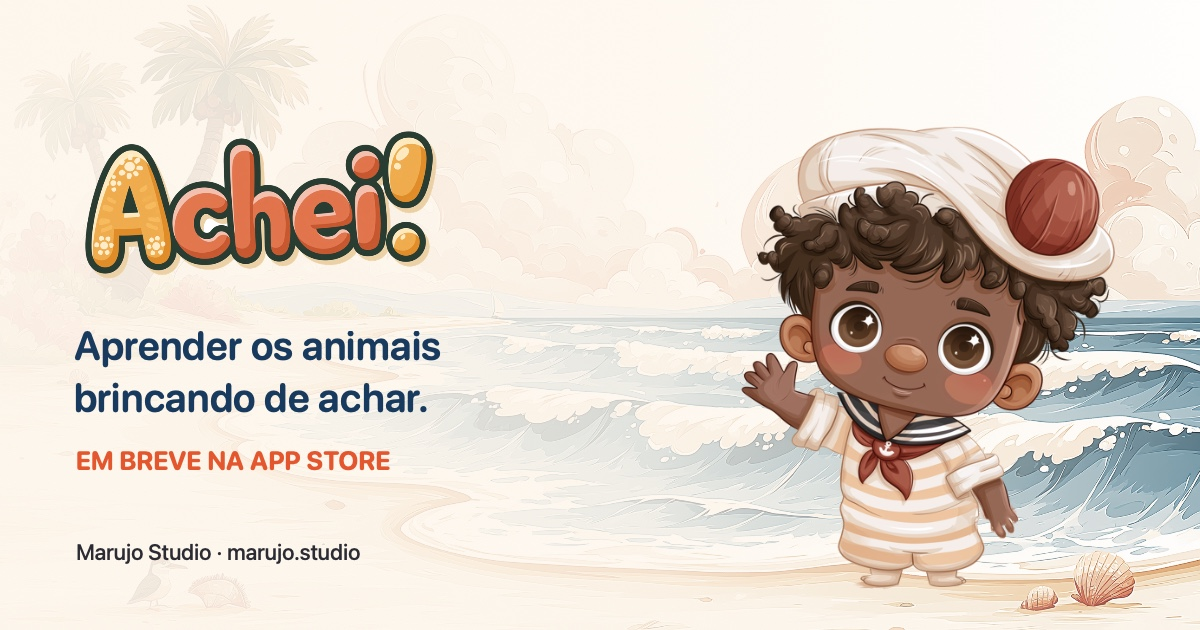
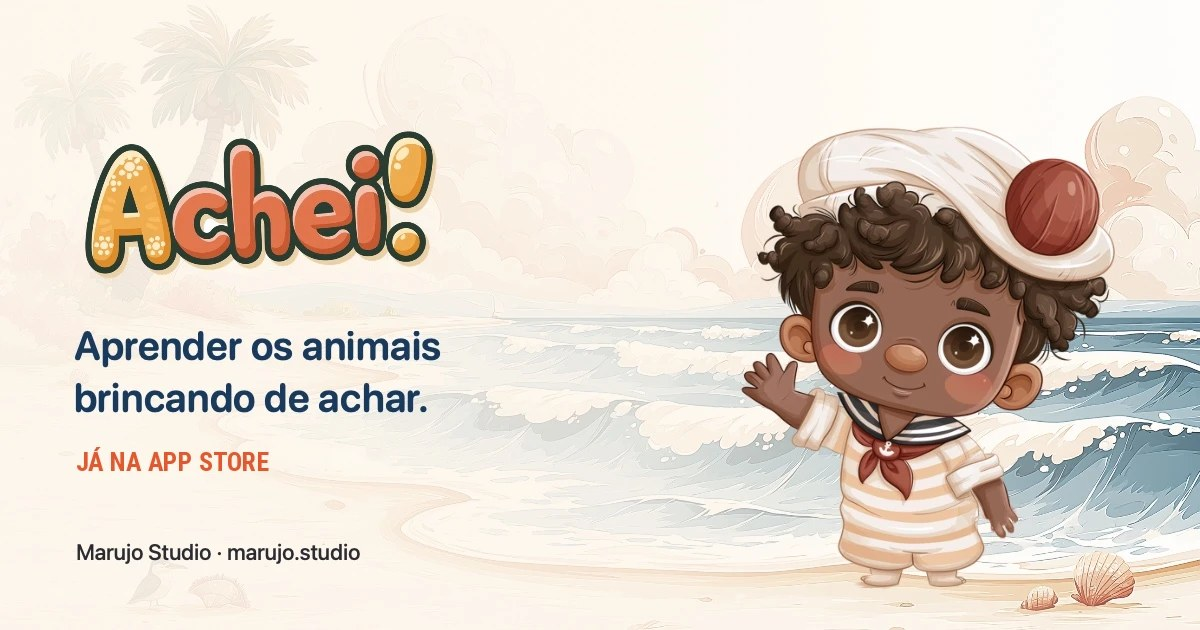
feat(achei): imagem de compartilhamento diz "Já na App Store"
og-image.jpg refeita (1200×630, mesmo layout, só a linha de status mudou)
e URL versionada (?v=2) nas metas OG/Twitter para os previews renovarem.

Claude-Session: https://claude.ai/code/session_01UqhxStSTb59dbCN1v7Wiu2

Changed region(s): [[0.0617, 0.6937, 0.3392, 0.754]]

diff --git a/achei.html b/achei.html
@@ -17,14 +17,14 @@
 <meta property="og:title" content="Achei! Jogo Infantil Educativo — aprender os nomes brincando de achar">
 <meta property="og:description" content="Um joguinho gentil para crianças de 2 a 5 anos. Sem anúncios, sem internet, sem pressa — com três mundinhos grátis para começar. Já na App Store.">
 <meta property="og:url" content="https://marujo.studio/achei.html">
-<meta property="og:image" content="https://marujo.studio/assets/img/og-image.jpg">
+<meta property="og:image" content="https://marujo.studio/assets/img/og-image.jpg?v=2">
 <meta property="og:image:width" content="1200">
 <meta property="og:image:height" content="630">
 <meta property="og:locale" content="pt_BR">
 <meta name="twitter:card" content="summary_large_image">
 <meta name="twitter:title" content="Achei! Jogo Infantil Educativo — aprender os nomes brincando de achar">
 <meta name="twitter:description" content="Um joguinho gentil para crianças de 2 a 5 anos. 100% offline no jogo, sem anúncios, sem coleta de dados e com três mundinhos grátis para começar.">
-<meta name="twitter:image" content="https://marujo.studio/assets/img/og-image.jpg">
+<meta name="twitter:image" content="https://marujo.studio/assets/img/og-image.jpg?v=2">
 
 <link rel="icon" href="assets/img/favicon-32.png" sizes="32x32">
 <link rel="apple-touch-icon" href="assets/img/favicon-180.png">

diff --git a/index.html b/index.html
@@ -15,14 +15,14 @@
 <meta property="og:title" content="marujo.studio — apps feitos com carinho para crianças">
 <meta property="og:description" content="A tela é inevitável, mas a gente ajuda a fazer dela um tempo melhor. Conheça o Achei! e o Solê.">
 <meta property="og:url" content="https://marujo.studio/">
-<meta property="og:image" content="https://marujo.studio/assets/img/og-image.jpg">
+<meta property="og:image" content="https://marujo.studio/assets/img/og-image.jpg?v=2">
 <meta property="og:image:width" content="1200">
 <meta property="og:image:height" content="630">
 <meta property="og:locale" content="pt_BR">
 <meta name="twitter:card" content="summary_large_image">
 <meta name="twitter:title" content="marujo.studio — apps feitos com carinho para crianças">
 <meta name="twitter:description" content="A tela é inevitável, mas a gente ajuda a fazer dela um tempo melhor. Conheça o Achei! e o Solê.">
-<meta name="twitter:image" content="https://marujo.studio/assets/img/og-image.jpg">
+<meta name="twitter:image" content="https://marujo.studio/assets/img/og-image.jpg?v=2">
 
 <link rel="icon" type="image/svg+xml" href="assets/img/favicon-compass.svg">
 <link rel="icon" href="assets/img/favicon-compass-32.png" sizes="32x32">

diff --git a/sole.html b/sole.html
@@ -14,14 +14,14 @@
 <meta property="og:title" content="Solê — livros que leem para o seu filho">
 <meta property="og:description" content="Livros infantis narrados para os pequenos que gostam de histórias. A telinha que vira colo. Sem anúncios, sem internet, sem pressa.">
 <meta property="og:url" content="https://marujo.studio/sole.html">
-<meta property="og:image" content="https://marujo.studio/assets/img/og-image.jpg">
+<meta property="og:image" content="https://marujo.studio/assets/img/og-image.jpg?v=2">
 <meta property="og:image:width" content="1200">
 <meta property="og:image:height" content="630">
 <meta property="og:locale" content="pt_BR">
 <meta name="twitter:card" content="summary_large_image">
 <meta name="twitter:title" content="Solê — livros que leem para o seu filho">
 <meta name="twitter:description" content="Livros infantis narrados para os pequenos que gostam de histórias. A telinha que vira colo.">
-<meta name="twitter:image" content="https://marujo.studio/assets/img/og-image.jpg">
+<meta name="twitter:image" content="https://marujo.studio/assets/img/og-image.jpg?v=2">
 
 <link rel="icon" href="assets/img/icon_sole.png" sizes="any">
 <link rel="apple-touch-icon" href="assets/img/icon_sole.png">

diff --git a/privacidade.html b/privacidade.html
@@ -14,12 +14,12 @@
 <meta property="og:title" content="Política de Privacidade — Achei!">
 <meta property="og:description" content="Nenhum dado coletado. O jogo funciona offline; o progresso pode ficar no iCloud privado da própria família e a compra opcional é processada pela Apple.">
 <meta property="og:url" content="https://marujo.studio/privacidade.html">
-<meta property="og:image" content="https://marujo.studio/assets/img/og-image.jpg">
+<meta property="og:image" content="https://marujo.studio/assets/img/og-image.jpg?v=2">
 <meta property="og:image:width" content="1200">
 <meta property="og:image:height" content="630">
 <meta property="og:locale" content="pt_BR">
 <meta name="twitter:card" content="summary_large_image">
-<meta name="twitter:image" content="https://marujo.studio/assets/img/og-image.jpg">
+<meta name="twitter:image" content="https://marujo.studio/assets/img/og-image.jpg?v=2">
 
 <link rel="icon" href="assets/img/favicon-32.png" sizes="32x32">
 <link rel="apple-touch-icon" href="assets/img/favicon-180.png">

diff --git a/suporte.html b/suporte.html
@@ -14,12 +14,12 @@
 <meta property="og:title" content="Suporte — Achei! e Solê | marujo.studio">
 <meta property="og:description" content="Fale com a gente por e-mail e veja as perguntas frequentes de cada app: Achei! Jogo Infantil Educativo e Solê.">
 <meta property="og:url" content="https://marujo.studio/suporte.html">
-<meta property="og:image" content="https://marujo.studio/assets/img/og-image.jpg">
+<meta property="og:image" content="https://marujo.studio/assets/img/og-image.jpg?v=2">
 <meta property="og:image:width" content="1200">
 <meta property="og:image:height" content="630">
 <meta property="og:locale" content="pt_BR">
 <meta name="twitter:card" content="summary_large_image">
-<meta name="twitter:image" content="https://marujo.studio/assets/img/og-image.jpg">
+<meta name="twitter:image" content="https://marujo.studio/assets/img/og-image.jpg?v=2">
 
 <link rel="icon" type="image/svg+xml" href="assets/img/favicon-compass.svg">
 <link rel="icon" href="assets/img/favicon-compass-32.png" sizes="32x32">

diff --git a/sole-privacidade.html b/sole-privacidade.html
@@ -14,12 +14,12 @@
 <meta property="og:title" content="Política de Privacidade — Solê">
 <meta property="og:description" content="Nenhum dado coletado. O Solê opera de forma inteiramente local, sem coletar, armazenar ou transmitir dados pessoais.">
 <meta property="og:url" content="https://marujo.studio/sole-privacidade.html">
-<meta property="og:image" content="https://marujo.studio/assets/img/og-image.jpg">
+<meta property="og:image" content="https://marujo.studio/assets/img/og-image.jpg?v=2">
 <meta property="og:image:width" content="1200">
 <meta property="og:image:height" content="630">
 <meta property="og:locale" content="pt_BR">
 <meta name="twitter:card" content="summary_large_image">
-<meta name="twitter:image" content="https://marujo.studio/assets/img/og-image.jpg">
+<meta name="twitter:image" content="https://marujo.studio/assets/img/og-image.jpg?v=2">
 
 <link rel="icon" href="assets/img/icon_sole.png" sizes="any">
 <link rel="apple-touch-icon" href="assets/img/icon_sole.png">
